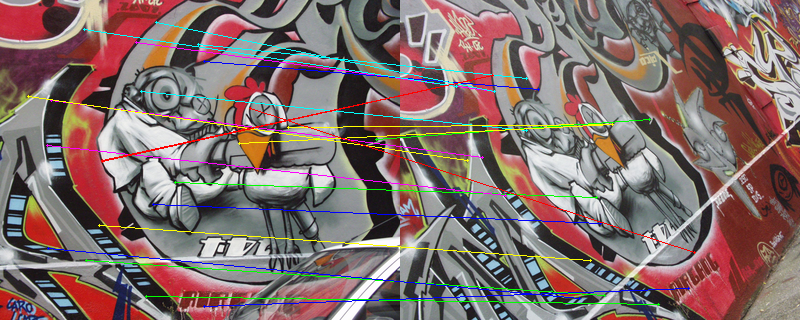
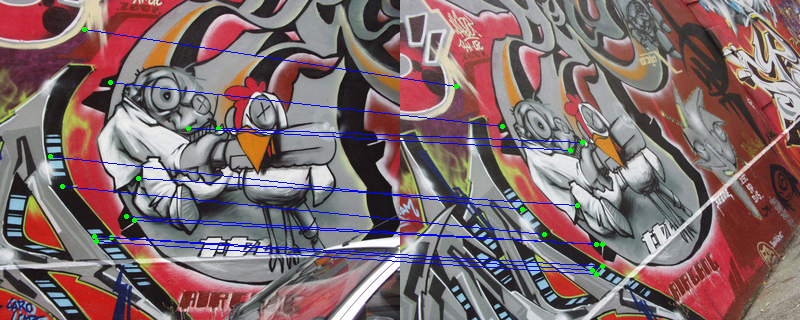
bugs fixed

diff --git a/image_alignment.py b/image_alignment.py
@@ -1,6 +1,4 @@
 #!/usr/bin/env python3
-import numpy as np
-from tqdm import tqdm
 from husky_assistant import *
 
 
@@ -48,7 +46,7 @@ def compute_descriptors(image, keyP):
     - descriptors (list of 1d array): A list of desciptors for each corner.
         Each element is an 1d array of length 128.
     """
-    time1 = time()
+    # time1 = time()
     width = 4
     numBins = 8
     scaleRatio = 3
@@ -130,8 +128,8 @@ def compute_descriptors(image, keyP):
             # 二次归一化
             descriptor_vector /= max(np.linalg.norm(descriptor_vector), 1e-7)
             descriptors.append([descriptor_vector, idx])
-    time2 = time()
-    print('compute descriptor:', time2 - time1, 's')
+    # time2 = time()
+    # print('compute descriptor:', time2 - time1, 's')
     return descriptors
 
 
@@ -147,19 +145,19 @@ def match_descriptors(descriptors1, descriptors2):
         indices. Each tuple contains two integer indices. For example, tuple
         (0, 42) indicates that corners1[0] is matched to corners2[42].
     """
-    time1 = time()
+    # time1 = time()
     matches = defaultdict(int)
     for i, descriptor1 in enumerate(descriptors1):
         dist = np.zeros(len(descriptors2))
         for j, descriptor2 in enumerate(descriptors2):
             dist[j] = np.linalg.norm(descriptor1[0] - descriptor2[0])
         idxes = np.argsort(dist)
-        if dist[idxes[0]] / (dist[idxes[1]] + 1e-10) < 0.8:
+        if dist[idxes[0]] / (dist[idxes[1]] + 1e-10) < 0.9:
             matches[(descriptor1[1], descriptors2[idxes[0]][1])] = dist[idxes[0]]
     # matches = sorted(matches.keys(), key=lambda item: item[1], reverse=False)
-    time2 = time()
-    print('find', len(matches), 'matches')
-    print('match descriptors:', time2 - time1, 's')
+    # time2 = time()
+    print('Found', len(matches), 'matches')
+    # print('match descriptors:', time2 - time1, 's')
     return np.array(list(matches.keys()))
 
 
@@ -191,26 +189,31 @@ def draw_matches(image1, image2, keyP1, keyP2, matches,
     match_image = np.concatenate([image1, image2], axis=1)
     if outlier_labels is None:
         outlier_labels = np.zeros(len(matches))
-    colors = [(255, 0, 0), (0, 255, 0), (255, 255, 0), (0, 255, 255), (255, 0, 255)]
-    rotate = 0
+    # colors = [(255, 0, 0), (0, 255, 0), (255, 255, 0), (0, 255, 255), (255, 0, 255)]
+    # rotate = 0
     for (a, b), i in zip(matches, outlier_labels):
-        if i:
-            color = (0, 0, 255)
-        else:
-            color = colors[rotate]
-            rotate += 1
-            rotate %= len(colors)
         pos1 = posExtractor(a, keyP1)
         pos2 = posExtractor(b, keyP2)
         pos2 = list(pos2)
         pos2[0] += W1
         pos2 = tuple(pos2)
-        cv2.line(match_image, pos1, pos2, color=color, thickness=1)
-        cv2.circle(match_image, pos1, radius=1, color=color, thickness=1)
-        cv2.circle(match_image, pos2, radius=1, color=color, thickness=1)
+        if i:
+            color = (0, 0, 255)
+            cv2.line(match_image, pos1, pos2, color=color, thickness=1)
+            cv2.circle(match_image, pos1, radius=1, color=color, thickness=2)
+            cv2.circle(match_image, pos2, radius=1, color=color, thickness=2)
+        else:
+            # color = colors[rotate]
+            # rotate += 1
+            # rotate %= len(colors)
+            color = (255, 0, 0)
+            cv2.line(match_image, pos1, pos2, color=color, thickness=1)
+            cv2.circle(match_image, pos1, radius=1, color=(0, 255, 0), thickness=2)
+            cv2.circle(match_image, pos2, radius=1, color=(0, 255, 0), thickness=2)
     # im_show(match_image)
     # time2 = time()
     # print('draw matching image:', time2 - time1, 's')
+    print('match image')
     return match_image
 
 
@@ -240,8 +243,8 @@ def compute_affine_xform(keyP1, keyP2, matches):
     for i, j in matches:
         pos1.append(posExtractor(i, keyP1))
         pos2.append(posExtractor(j, keyP2))
-    pos1 = np.array(pos1)
-    pos2 = np.array(pos2)
+    pos1 = np.array(pos1) + 50
+    pos2 = np.array(pos2) + 50
     cat = np.ones((len(matches), 1))
     pos1 = np.concatenate((pos1, cat), axis=1)
     pos2 = np.concatenate((pos2, cat), axis=1)
@@ -253,8 +256,9 @@ def compute_affine_xform(keyP1, keyP2, matches):
         vector2 = pos2[sample]
         affMartix = np.linalg.lstsq(vector1, vector2, rcond=None)[0]
         dist = np.linalg.norm(pos1.dot(affMartix) - pos2, axis=1)
-        var = np.var(dist)
-        thres = np.sqrt(var)
+        # var = np.var(dist)
+        thres = 10
+        # thres = 5
         inner_labels = dist < thres
         if inner_labels.sum() > max_in:
             outlier_labels = ~inner_labels
@@ -264,7 +268,7 @@ def compute_affine_xform(keyP1, keyP2, matches):
         return None, None, None
     dist = np.linalg.norm(pos1.dot(xform) - pos2, axis=1)
     idxes = np.argsort(dist)
-    nums = min(len(idxes), 25)
+    nums = min(len(idxes), 12)
     print('xform')
     print(xform)
     print('inliers:', max_in)
@@ -299,6 +303,7 @@ def stitch_images(image1, image2, xform):
     image_stitched[(image2 > 0) & (warped > 0)] /= 2
     # time2 = time()
     # print('stitch image:', time2 - time1, 's')
+    print('stitched image')
     return image_stitched.astype('uint8')
 
 
@@ -306,7 +311,7 @@ def imageStitch(name, name1, img_path1, img_path2):
     dataPath = 'data/'
     matchPath = 'match_image/'
     stitchPath = 'image_stitched/'
-    print('\nstitching', img_path1, 'and', img_path2)
+    print('\n', img_path1, 'and', img_path2)
     img1 = cv2.imread(dataPath + img_path1, cv2.IMREAD_COLOR)
     img2 = cv2.imread(dataPath + img_path2, cv2.IMREAD_COLOR)
     gray1 = cv2.cvtColor(img1, cv2.COLOR_BGR2GRAY) / 255.0
@@ -326,16 +331,12 @@ def imageStitch(name, name1, img_path1, img_path2):
 
 def main():
     imageStitch('bikes_01.png', 'bikes_11.png', 'bikes1.png', 'bikes2.png')
-    imageStitch('bikes_02.png', 'bikes_22.png', 'bikes2.png', 'bikes3.png')
     imageStitch('bikes_03.png', 'bikes_33.png', 'bikes1.png', 'bikes3.png')
     imageStitch('graf_01.png', 'graf_11.png', 'graf1.png', 'graf2.png')
-    imageStitch('graf_02.png', 'graf_22.png', 'graf2.png', 'graf3.png')
     imageStitch('graf_03.png', 'graf_33.png', 'graf1.png', 'graf3.png')
     imageStitch('leuven01.png', 'leuven11.png', 'leuven1.png', 'leuven2.png')
-    imageStitch('leuven02.png', 'leuven22.png', 'leuven2.png', 'leuven3.png')
     imageStitch('leuven03.png', 'leuven33.png', 'leuven1.png', 'leuven3.png')
     imageStitch('wall01.png', 'wall11.png', 'wall1.png', 'wall2.png')
-    imageStitch('wall02.png', 'wall22.png', 'wall2.png', 'wall3.png')
     imageStitch('wall03.png', 'wall33.png', 'wall1.png', 'wall3.png')
 
 

diff --git a/husky_assistant.py b/husky_assistant.py
@@ -231,6 +231,6 @@ def blobDetection(husky, gaussians, S=3, sigma=1.6, cThres=0.05):
                         counter += 1
     husky = sorted(corners.items(), key=lambda item: item[1].value, reverse=True)
     time2 = time()
-    print('find', counter, 'keypoints')
-    print('find keypoint:', time2 - time1, 's')
+    # print('find', counter, 'keypoints')
+    # print('find keypoint:', time2 - time1, 's')
     return husky
